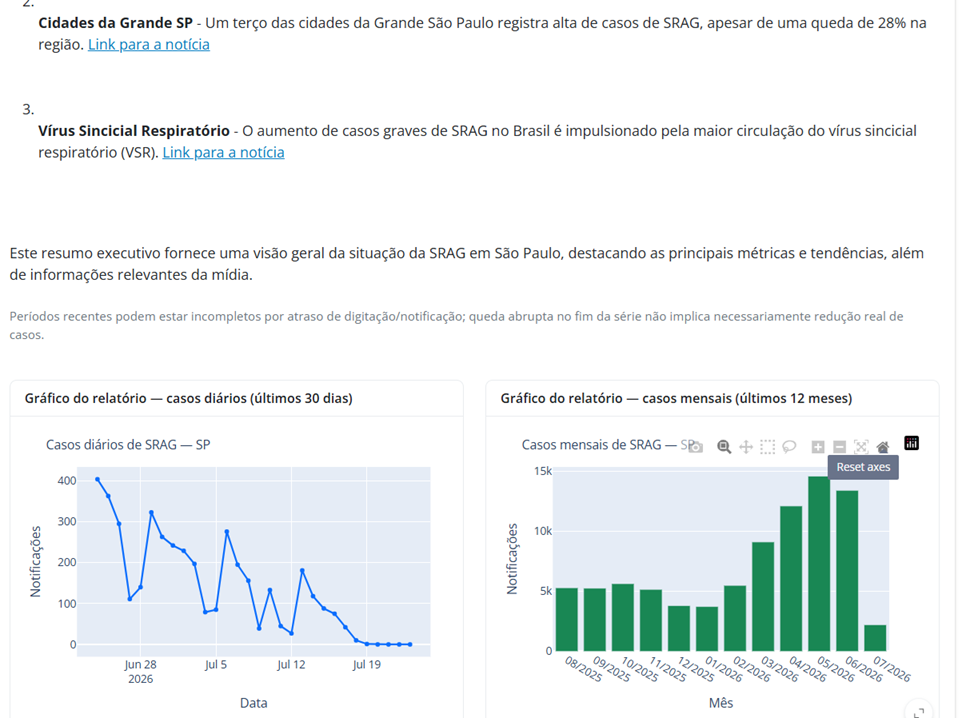
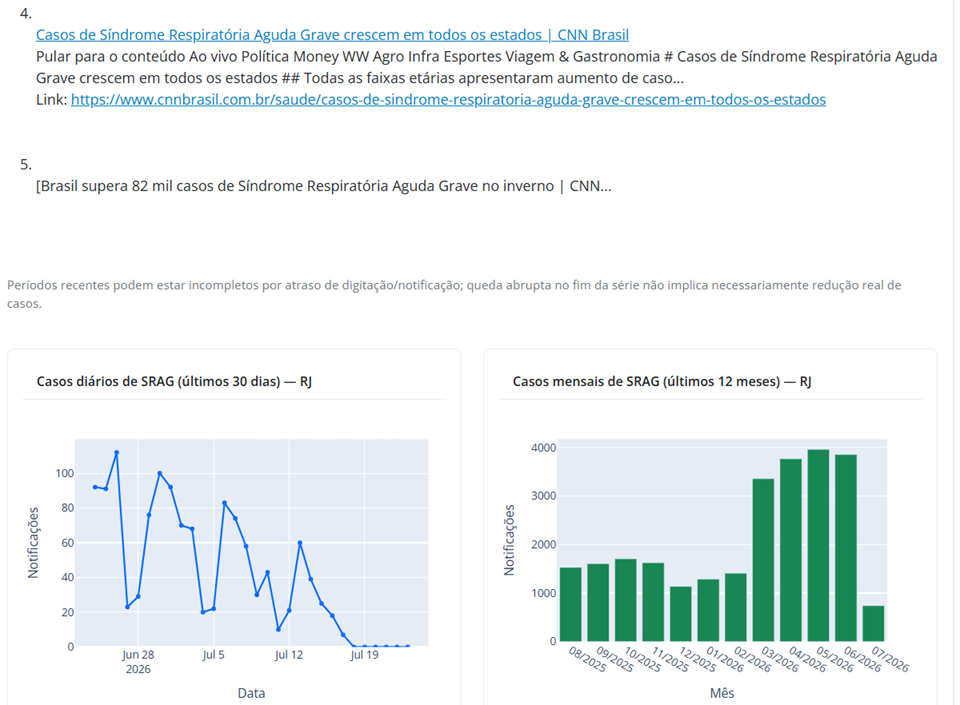
update

diff --git a/shiny_app/dashboard.py b/shiny_app/dashboard.py
@@ -132,12 +132,6 @@ ui.tags.style(
         margin-top: 0.35rem;
         margin-bottom: 0;
     }
-    .srag-chat-tools {
-        font-size: 0.8rem;
-        color: #495057;
-        margin-top: 0.35rem;
-        margin-bottom: 0;
-    }
     .srag-chat-actions {
         display: flex;
         flex-wrap: wrap;
@@ -624,11 +618,6 @@ with ui.div(class_="srag-main"):
                         ui.strong(label),
                         ui.p(item.get("content") or "", style="margin-bottom: 0;"),
                     ]
-                    tools = item.get("tools_used") or []
-                    if tools:
-                        children.append(
-                            ui.p(f"Tools: {', '.join(tools)}", class_="srag-chat-tools")
-                        )
                     bubbles.append(ui.div(*children, class_=css))
 
                 if chat_awaiting_reply.get() or chat_task.status() == "running":